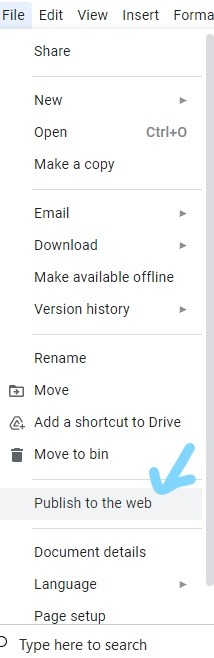
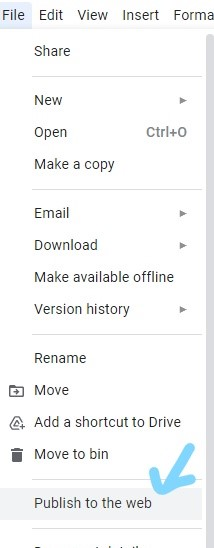
updated image size

diff --git a/README.md b/README.md
@@ -20,7 +20,7 @@ Click on the "Publish" button:
 
 Copy the Google Docs publish link under the link tab :
 
-![publish_step_1](docs_publish_step_3.png)
+![publish_step_2](docs_publish_step_3.png)
 
 
 * Convert Google Docs to Markdown
